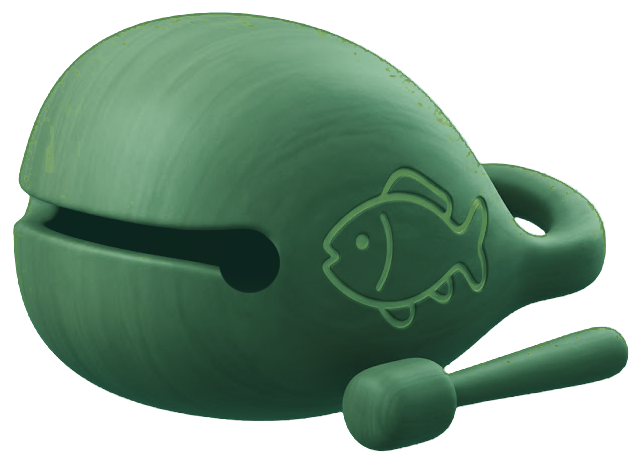
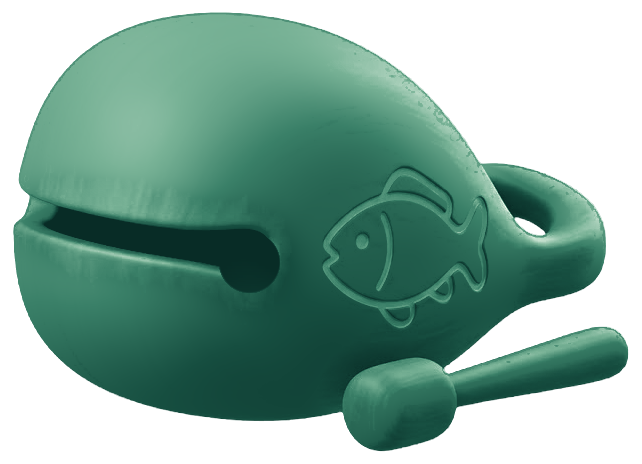
금·옥에서 나뭇결을 걷는다 — 물고기는 남기고
형: 「옥색 더 옥처럼 만들고 나무 재질 아니야. 금도 나무 재질 아니야」

빛깔만 바꾸면 나무다. 길게 휘도는 **나뭇결 띠**가 곧 나무이기 때문이다.
그림을 두 겹으로 갈라 본다 —
 · 낮은 결: 물건이 둥글다는 것을 말하는 형태의 명암 → 남긴다
 · 높은 결: 나뭇결·얼룩·새긴 자국 → 여기가 문제다

높은 결을 통째로 지웠더니 **물고기 양각까지 같이 사라졌다.** 둘은 다른
것이다 — 나뭇결은 얕고 넓은 흔들림이고 새긴 자국은 깊고 좁은 선이다.
그래서 높이로 가른다(coring): 문턱보다 얕으면 버리고 넘은 만큼만 남긴다.
결은 죽고 물고기는 산다.

 · 금 — 대비를 1.5 로 올리고 밝은 쪽 끝에 좁은 광을 세운다. 금속은
   빛과 그늘의 차가 크고, 그 좁은 광 한 줄이 금속을 만든다.
 · 옥 — 광은 약하게. 그늘을 깊은 청록으로, 빛을 젖빛으로.

흐릴 때 알파로 무게를 준다 — 그냥 흐리면 바깥 빈 곳이 섞여 가장자리가
어두워진다(예전에 잿빛 띠를 만든 그 실수).

diff --git a/src/app/moktak/page.tsx b/src/app/moktak/page.tsx
@@ -132,7 +132,7 @@ const PRACTICE_TABS: readonly PracticeTab[] = ["moktak", "yeomju", "bowl", "keyc
 /** 그림 판 번호 — 그림을 고쳐 올려도 **파일 이름이 같으면** 브라우저가
     옛 것을 그대로 쥐고 있다. 형이 「아직 진하다」고 한 게 그것이었다.
     고칠 때마다 이 수를 올리면 새 그림으로 갈린다. */
-const 그림판 = 5;
+const 그림판 = 6;
 const 그림 = (s: string) => `${s}?v=${그림판}`;
 
 const SKINS = {
